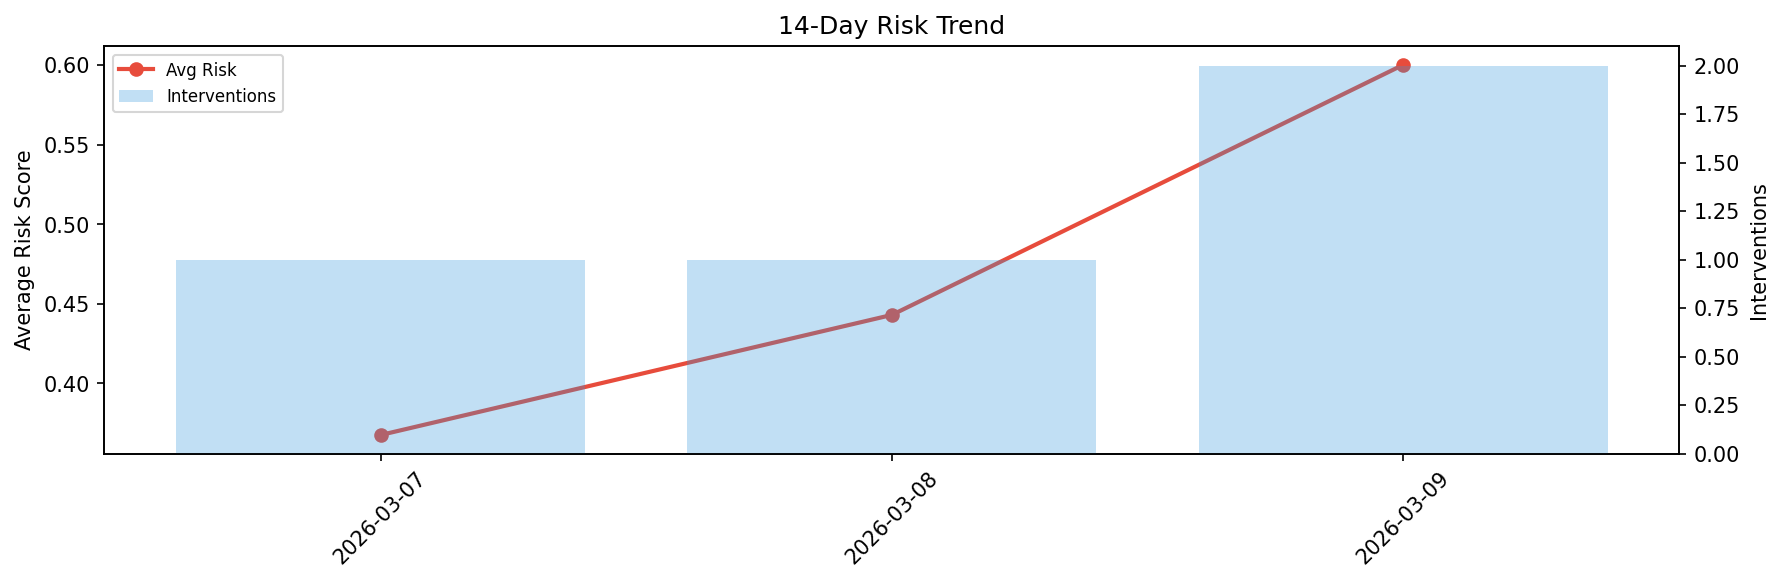
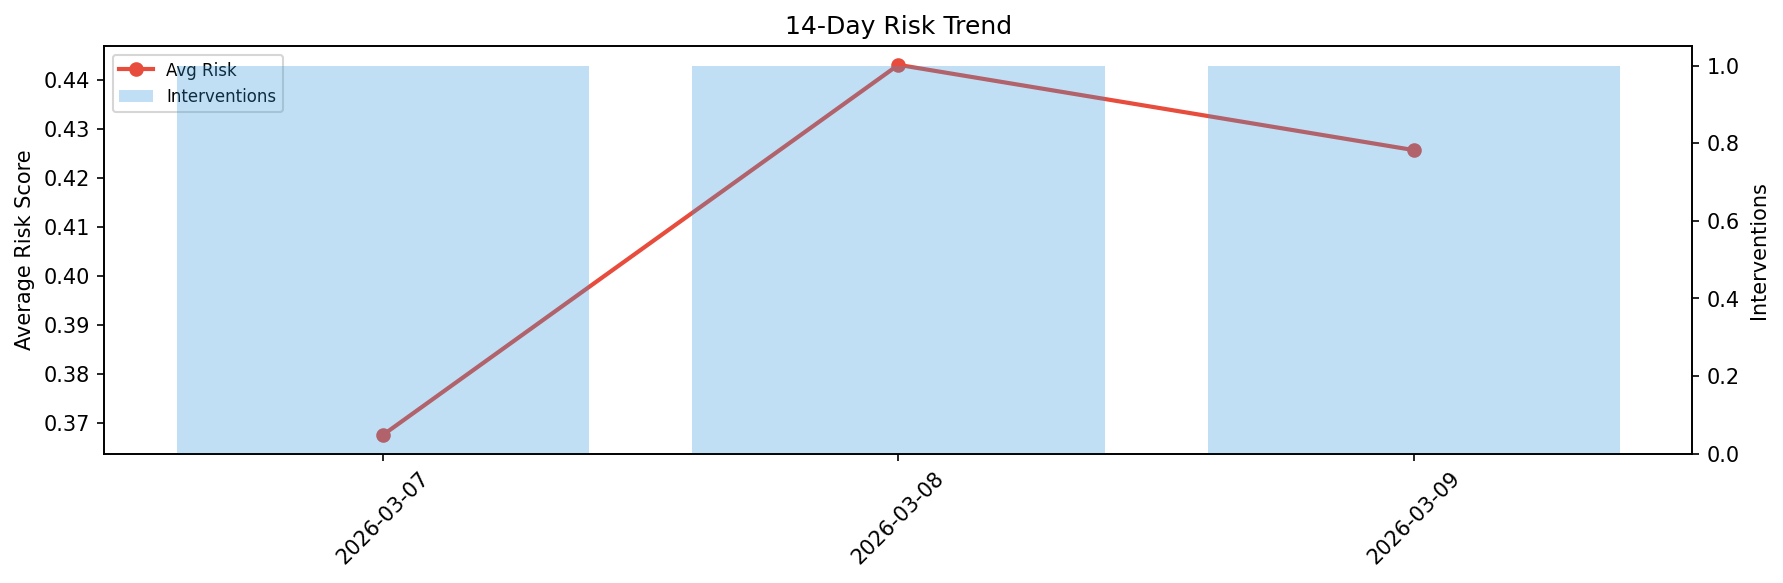
agent-improvement: daily cycle 2026-03-09T15:11

diff --git a/logs/2026-03-09.md b/logs/2026-03-09.md
@@ -1,6 +1,6 @@
 # Agent Improvement Report — 2026-03-09
 
-**Cycle ID:** `5cbc363d` | **Avg Risk:** 0.6003 | **Interventions:** 2/4
+**Cycle ID:** `6ae48899` | **Avg Risk:** 0.4257 | **Interventions:** 1/4
 
 ![Dashboard](2026-03-09_dashboard.png)
 
@@ -10,18 +10,18 @@
 
 | Domain | Risk Score | Decision | Alerts |
 |--------|-----------|----------|--------|
-| code_review | 0.3206 | monitor | complexity |
-| incident_response | 0.4927 | monitor | none |
-| data_pipeline | 0.8474 | intervene | freshness, schema_drift, volume_anomaly |
-| deployment | 0.7406 | intervene | canary_error, latency_p99 |
+| code_review | 0.6011 | intervene | none |
+| incident_response | 0.494 | monitor | mttr |
+| data_pipeline | 0.3392 | monitor | schema_drift |
+| deployment | 0.2687 | monitor | none |
 
 ## Delta vs Yesterday
 
 | Domain | Today | Yesterday | Change |
 |--------|-------|-----------|--------|
-| code_review | 0.3206 | 0.5646 | 📉 -43.2% |
-| incident_response | 0.4927 | 0.6039 | 📉 -18.4% |
-| data_pipeline | 0.8474 | 0.1742 | 📈 386.5% |
-| deployment | 0.7406 | 0.4296 | 📈 72.4% |
+| code_review | 0.6011 | 0.5646 | 📈 6.5% |
+| incident_response | 0.494 | 0.6039 | 📉 -18.2% |
+| data_pipeline | 0.3392 | 0.1742 | 📈 94.7% |
+| deployment | 0.2687 | 0.4296 | 📉 -37.5% |
 
-**Refinement:** `{'adjustment': 'tighten_thresholds', 'trend': 'degrading', 'window': 4}`
+**Refinement:** `{'adjustment': 'maintain', 'trend': 'improving', 'window': 4}`
